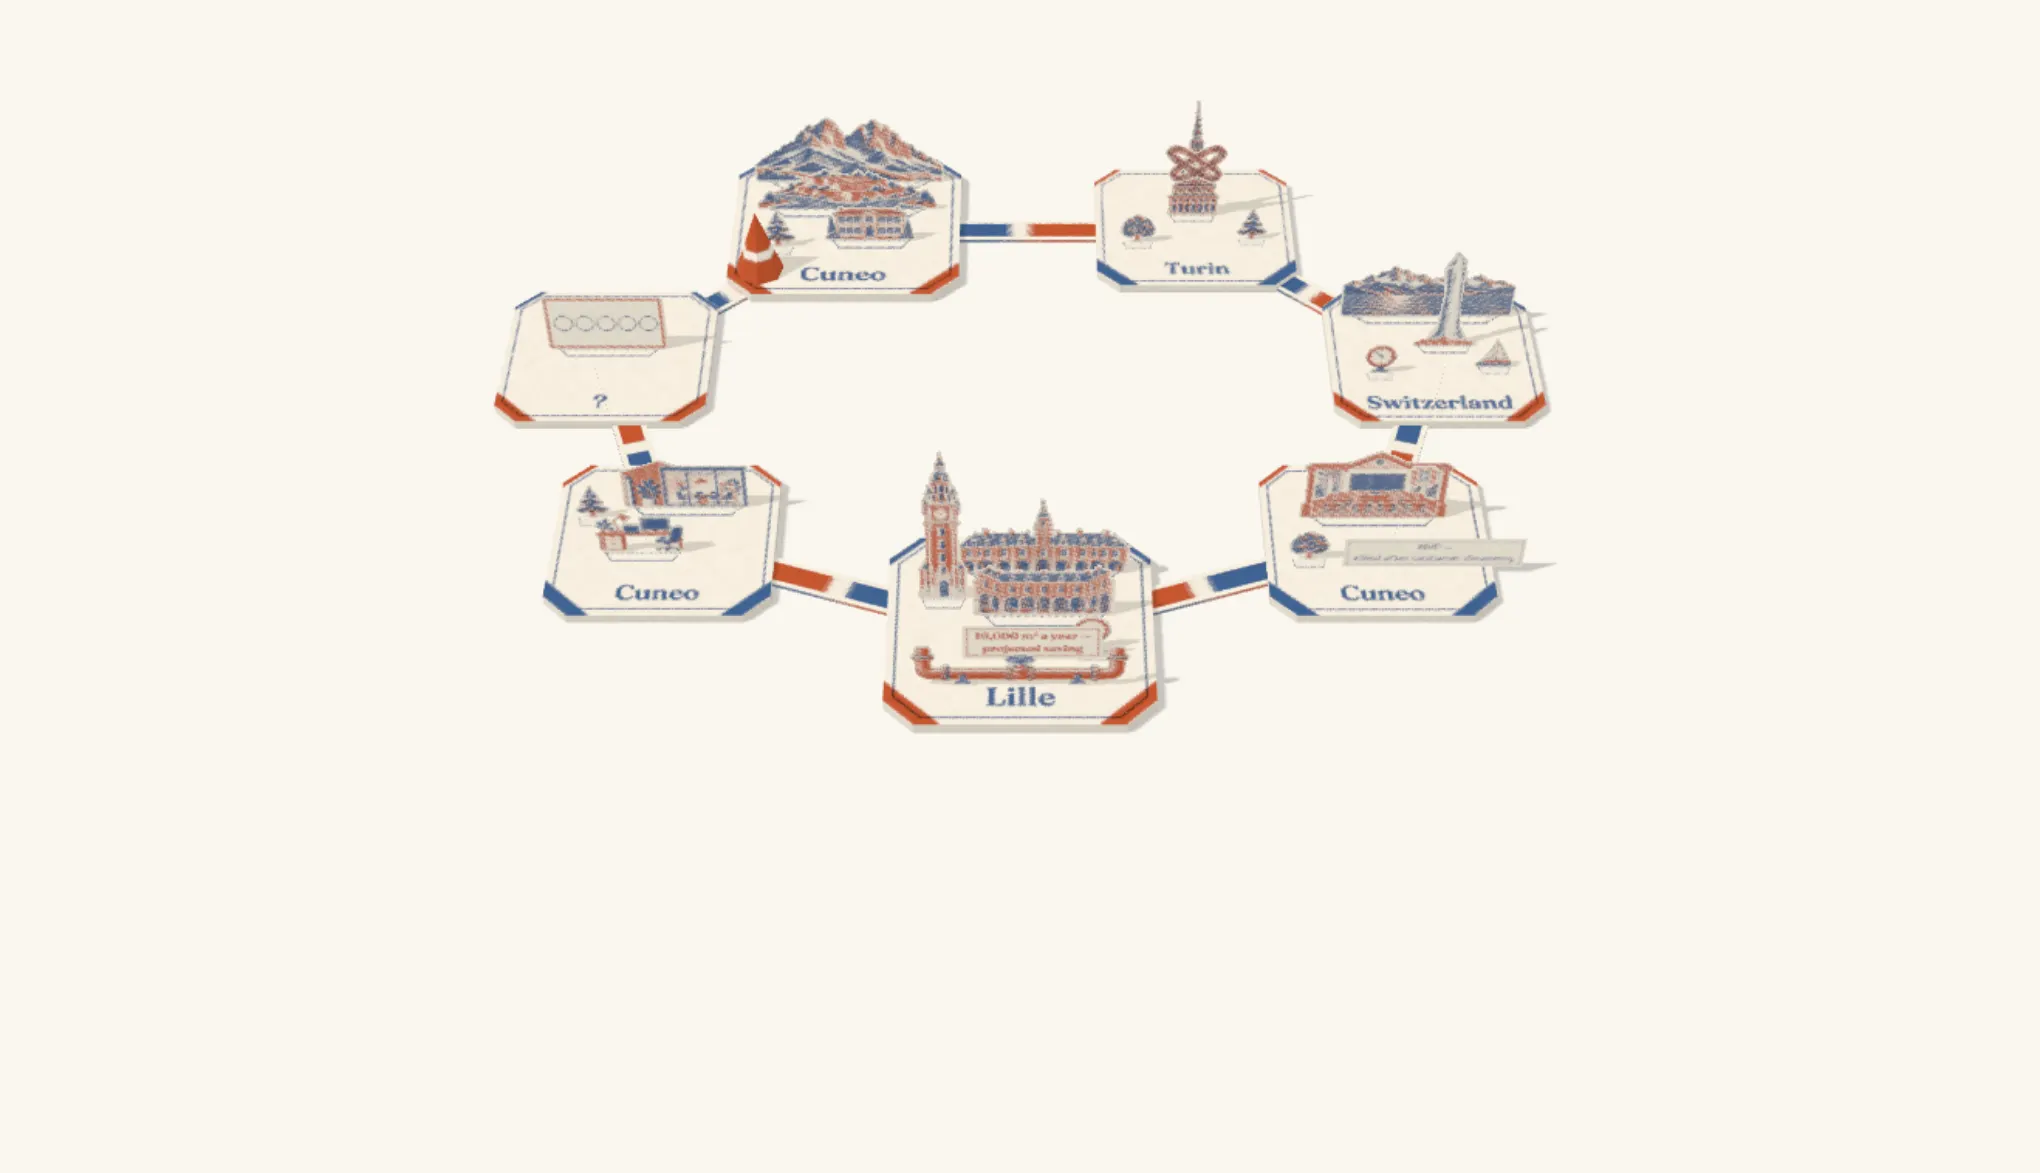
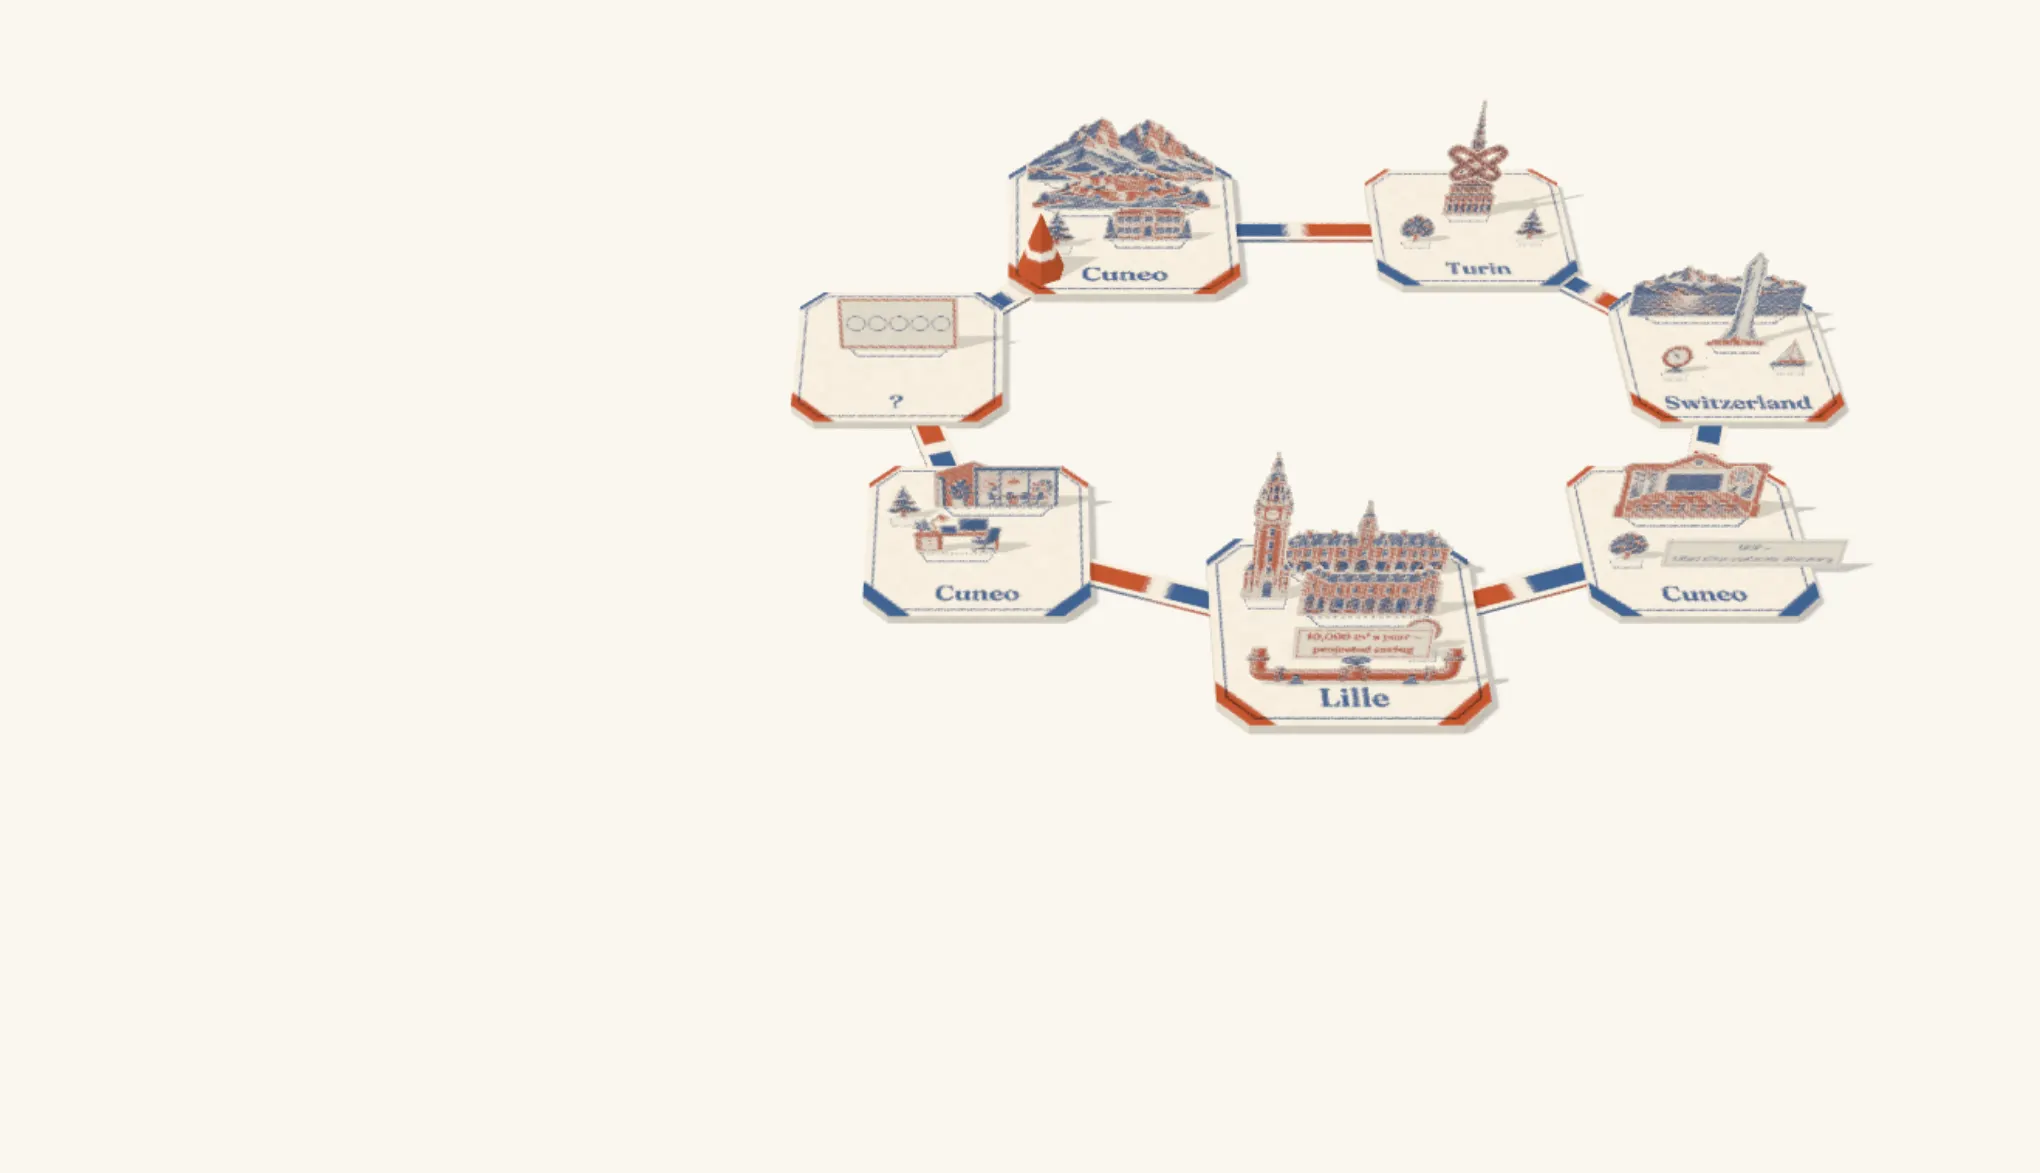
Re-measure the board in a production build and record the polish
The measurements doc states the GPU budget's unit, a million bytes, and
gives the new layout's figures: 58.6 MB at most, 1,393 KB a landing, the
stills at 37.3 KB at most. The board fills 90% of the stage across so
its printed labels stay inside it on a phone, and the stills are
rendered again for that. ADR-0008 points at ADR-0009's four tokens, and
ADR-0009 records the hinge tabs and why the pipe stays a card.

Ticket: v2-polish
Claude-Session: https://claude.ai/code/session_018sJQ2TV2i2bGYQG6afzS6i

Changed region(s): [[0.2471, 0.0921, 0.9265, 0.6445]]

diff --git a/src/components/path/scene/runtime.ts b/src/components/path/scene/runtime.ts
@@ -119,8 +119,11 @@ const CAMERA_FOV = 26;
  *  table. Steeper, the ring stands taller on a wide stage and fills more of
  *  the room the printed cards leave it. */
 const CAMERA_ELEVATION = 0.8;
-/** How much of the stage's free part the board may fill, either way. */
-const FRAME_FILL = { x: 0.95, y: 0.9 } as const;
+/** How much of the stage's free part the board may fill, either way. The
+ *  board's own labels, such as the MVP window's tag, are not among the
+ *  outlines the camera keeps in view, and reach a little past a tile's
+ *  side, so across it leaves them room. */
+const FRAME_FILL = { x: 0.9, y: 0.9 } as const;
 /** Each card after the first in a prop folds this much later. */
 const CARD_STAGGER_MS = 110;
 /** However many cards a prop has, the last starts with time left to fold. */

diff --git a/docs/path-measurements.md b/docs/path-measurements.md
@@ -11,58 +11,64 @@ Measured 2026-10-29 at `15e2380` plus #152's commit, on a production build (`bun
 ## The board (v2)
 
 The one-scene runtime was replaced by one 3D paper board (v2's board ticket): seven printed tiles
-whose die-cut cards fold up, drawn through an ink-separation shader (ADR-0009). Measured
-2026-10-29 at `ba7288f`, on a production build (`bun run build`, then `next start -p 3231`), with
-the method below, except that Chromium ran on the machine's GPU (ANGLE Metal, Apple M5) rather than
-SwiftShader. KB is 1,024 bytes and MB is 1,024² bytes.
+whose die-cut cards fold up, drawn through an ink-separation shader (ADR-0009).
 
-| Budget                   | Budget | Measured                                        | Within |
-| ------------------------ | ------ | ----------------------------------------------- | ------ |
-| Transfer per scene, cold | 1.5 MB | 1,384 KB, the same whichever step is landed on  | Yes    |
-| GPU memory, estimated    | 64 MB  | 32.1–61.4 MB (61.4 MB on a 2560-wide ×2 screen) | Yes    |
-| Each still               | 150 KB | Largest 62.4 KB (`now-light.webp`)              | Yes    |
+Re-measured 2026-10-29 for v2 polish at `76de10c`, on a production build (`bun run build`, then
+`next start -p 3241`), with the method below, except that Chromium ran on the machine's GPU (ANGLE
+Metal, Apple M5) rather than SwiftShader. Since then the stills were rendered again (smaller; see
+below) and the board's horizontal fill went from 95% to 90% of the stage, which moves no bytes.
+
+**Units.** KB is 1,024 bytes. The GPU budget is **64 MB of a million bytes each, 64,000,000
+bytes**, and GPU figures are given in MB of that size, with MiB (1,024² bytes) beside them. v2's
+first report gave 61.4 "MB" against the budget; that was 61.4 MiB, which is 64.4 MB, over it.
+
+| Budget                   | Budget | Measured                                                   | Within |
+| ------------------------ | ------ | ---------------------------------------------------------- | ------ |
+| Transfer per scene, cold | 1.5 MB | 1,393 KB measured; about 1,367 KB with the new stills      | Yes    |
+| GPU memory, estimated    | 64 MB  | 30.8–58.6 MB (29.4–55.9 MiB); 58.6 MB on every wide screen | Yes    |
+| Each still               | 150 KB | Largest 37.3 KB (`cuneo-2022-dark.webp`)                   | Yes    |
 
 Every step is a tile on the one board, so every landing loads the same thing: the page, the
-runtime, every card and one still. `/path#home`, `#lille` and `#next` arriving cold:
+runtime, every card and one still. `/path#home`, `#lille` and `#next` arriving cold, at
+1440×900 ×2 (the three landings were within 0.3 KB of each other):
 
 | What                                         | KB    |
 | -------------------------------------------- | ----- |
-| The `/path` HTML                             | 16.4  |
+| The `/path` HTML                             | 17.7  |
 | Five WOFF2 fonts                             | 255.7 |
-| CSS                                          | 11.0  |
-| JavaScript, Next's and the route's, three.js | 303.5 |
+| CSS                                          | 12.2  |
+| JavaScript, Next's and the route's, three.js | 309.5 |
 | The 21 card files and `grain.webp`           | 735.6 |
 | The step's still, behind the canvas          | 62.2  |
-| **Total**                                    | 1,384 |
+| **Total**                                    | 1,393 |
 
-The cards are the tightest part: about 150 KB of headroom is left, so new card art comes out of
-it. `tests/path-lille.spec.ts` checks the cards and the largest still against the budget, with the
-page's 587 KB rounded up to 600 KB.
+The still in that table is the one shipped before this polish. The stills rendered since are
+35.6–37.3 KB, which brings a landing to about 1,367 KB; that figure is computed from the file
+sizes, not re-measured on the wire.
 
 GPU memory, from wrapping `texStorage2D`, `texImage2D`, `bufferData` and `renderbufferStorage*`
-under `/path#lille` with the whole board built:
+with the whole board built: 21.6 MiB (22.6 MB) of uploads, textures counted as RGBA with a third
+more for mipmaps, the shadow map and the hinge tabs' one 256×40 separation included. The drawing
+buffer is the canvas in device pixels at 36 bytes a pixel (`drawing-buffer.ts`).
 
-| What                                                             | MB   |
-| ---------------------------------------------------------------- | ---- |
-| Seven tile tops, drawn in code (378×361, with mipmaps)           | 4.9  |
-| The sun's shadow map, 1024² colour and depth                     | 8.0  |
-| Cards (at most 384 px a side), labels, the pawn and `grain.webp` | 7.3  |
-| Vertex and index buffers                                         | 0.01 |
-| **Uploads**                                                      | 20.2 |
+| Viewport (CSS px, pixel ratio) | Stage (CSS px) | Canvas (device px) | Drawing buffer | Total, MB (MiB) |
+| ------------------------------ | -------------- | ------------------ | -------------- | --------------- |
+| 375×812, ×3                    | 375×270        | 562×405            | 8.2 MB         | 30.8 (29.4)     |
+| 1280×720, ×2                   | 1200×602       | 1411×708           | 36.0 MB        | 58.6 (55.9)     |
+| 1440×900, ×1                   | 1360×782       | 1318×758           | 36.0 MB        | 58.6 (55.9)     |
+| 1440×900, ×2                   | 1360×782       | 1318×758           | 36.0 MB        | 58.6 (55.9)     |
+| 2560×1440, ×2                  | 2480×1322      | 1369×730           | 36.0 MB        | 58.6 (55.9)     |
 
-| Viewport (CSS px, pixel ratio) | Stage (CSS px) | Canvas (device px) | Drawing buffer | Total |
-| ------------------------------ | -------------- | ------------------ | -------------- | ----- |
-| 375, ×3                        | 327×471        | 490×706            | 11.9           | 32.1  |
-| 1440, ×2                       | 976×522        | 1464×783           | 39.4           | 59.6  |
-| 2560, ×2                       | 2096×640       | 1982×605           | 41.2           | 61.4  |
-
-The uploads are eleven times the prototype's 1.8 MB, so the drawing buffer's cap
-(`drawing-buffer.ts`) drops from 1.6 to 1.2 million device pixels: at 1.6 million the 2560×2 stage
-measured 74.7 MB. The stage is also taller than the prototype's (`clamp(18rem, 58vh, 40rem)`), so
-the 1440×2 canvas is near the cap too.
+The stage is now the whole first screen, with the step list and the text panel laid over it
+(comp B), so every wide screen reaches the drawing buffer's cap. The cap dropped from 1.2 to 1.0
+million device pixels to bring the total clearly under 64 MB: at 1.2 million it would be 43.2 MB
+of buffer and 65.8 MB in all. The cost is sharpness on large stages: 1440×900 draws at 0.97 device
+pixels per CSS pixel, and 2560×1440 at 0.55, so the board is drawn softer there than the page
+around it. `tests/path-scene-contract.spec.ts` checks the arithmetic in MB for these stages.
 
 Stills: one per step and mode, all 14 rendered by `generate:path-stills` from the board settled on
-the step, 59.3–62.4 KB each.
+the step at 1440×900 ×1.5, with the cards laid over the stage hidden while the canvas is captured:
+35.6–37.3 KB each, 509 KB in all.
 
 The frame-rate fallback is unchanged. In SwiftShader with five test workers sharing the CPU, the
 board draws at 50–75 ms a frame, and the 33 ms sample rightly shows the stills; on the GPU the same
@@ -130,7 +136,7 @@ Lille, on top of home (183.4 KB):
 | `lille-bourse.bin` | 82.4 |
 | `lille-light.webp` | 30.0 |
 
-Decoders: the models are the repository's own quantised format (`model-format.ts`), decoded by code
+Decoders: the models were the repository's own quantised format (`model-format.ts`, deleted with them in v2), decoded by code
 inside the runtime chunk, so there is no separate decoder download (no Draco or meshopt WASM). The
 stills are WebP, decoded by the browser. The fonts are the site's own and are counted because a
 cold visitor pays for them.
@@ -243,7 +249,9 @@ From #149's asset log (`docs/path-assets.md`), which has the full record:
   frames at any rate near 33 ms, so a slow device is judged during its first build. Under
   reduced motion nothing animates and the sample never fills, so there is no frame-rate fallback
   there, and none is needed.
-- GPU memory is an estimate from uploads and canvas size in SwiftShader, not a reading on a real
-  GPU.
+- GPU memory is an estimate from uploads and canvas size, not a reading of what the GPU holds.
+- **The board is drawn soft on large screens.** The pixel cap that keeps GPU memory under 64 MB
+  draws a 2560×1440 stage at 0.55 device pixels per CSS pixel. Capping the stage's size, or
+  dropping multisampling for a cheaper antialias, would buy the sharpness back; neither is done.
 - The `now` voice clip is over #150's ~60 KB target, and `lille` is just over it. See
   [Voice clips](#voice-clips).

diff --git a/docs/adr/0009-the-path-board-prints-ink-separations.md b/docs/adr/0009-the-path-board-prints-ink-separations.md
@@ -32,6 +32,15 @@ What ships:
   `--path-[a-z-]+`. `palette.ts` spells each name out whole, because Tailwind emits an `@theme`
   variable only when its scanner finds the name in a source file.
 
+- **A card standing on a tile folds up from a glued tab** (added in v2 polish, 2026-10-29). The
+  tab is one more separation drawn in code (`tabTexture` in `runtime.ts`): stock with chamfered
+  ends, its cut edge ruled and its crease scored in the cool ink as a dashed line. It lies flat in
+  front of the card's foot, fades and grows with the card, and never turns. It stops short of the
+  tile's printed name; a card mounted on another card has none.
+- **Every piece stays paper.** Lille's pipe loop is a printed card, not a modelled terracotta
+  tube as comp B draws it: one shaded mesh would be the only thing on the board not printed by
+  the ink shader, and would read as from another set.
+
 ## Considered options
 
 **Full-colour card art, one set per mode.** Rejected: twice the transfer, against a 1.5 MB

diff --git a/docs/adr/0008-scene-art-is-exempt-from-the-colour-roles.md b/docs/adr/0008-scene-art-is-exempt-from-the-colour-roles.md
@@ -2,6 +2,12 @@
 
 Decided in #141 (Decision 12, Implementation Decision 7). Extends ADR-0001; does not replace it.
 
+**Amended 2026-10-29 (v2 polish).** The six path tokens below are gone. ADR-0009 replaced them
+with four, `--path-paper`, `--path-ink-warm`, `--path-ink-cool` and `--path-fog`, when the board
+became printed cards, and `tests/warm-print-design-system.spec.ts` now counts those four. The
+exemption itself is unchanged: it still covers `src/components/path/scene/`, which now holds the
+ink shader and the board's cards rather than lit scenes.
+
 ADR-0001 holds page colour to seven Warm Print roles, and the design-system guard
 (`tests/support/design-system-guard.ts`) flags anything colour-shaped under `src/` outside the
 token layer. The 3D path's scenes (ADR-0007) need colour that is not page interface: baked
